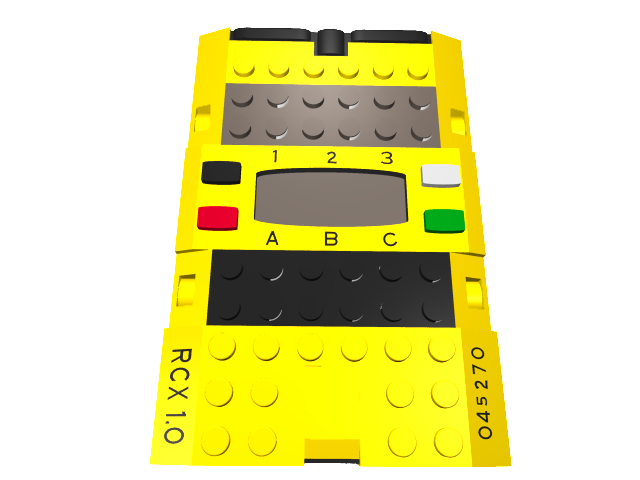
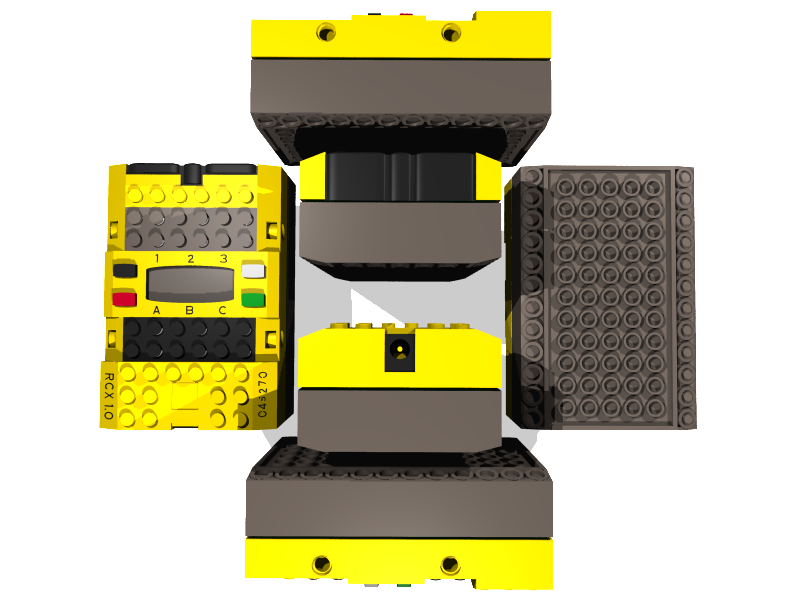
draft of linux and FAQ sections

diff --git a/_posts/2017-05-03-RCX_guide.html b/_posts/2017-05-03-RCX_guide.html
@@ -12,6 +12,7 @@ imgurl: /img/rcx_guide/rcx.png
 	<li>Programming on linux section</li>
 	<li>Online resources section</li>
 	<li>FAQ?</li>
+	<li>Add power supply to parts table</li>
 </ul>
 </b>
 
@@ -60,7 +61,7 @@ imgurl: /img/rcx_guide/rcx.png
 	and is the one you want anyway.
 	<figure>
 		<img class="embed_image" src="/img/rcx_guide/rcx.png">
-		<figcaption>RCX 1.0 brick. The 2.0 brick is identical except that there's no power jack at
+		<figcaption>RCX 1.0 brick, from all sides. The 2.0 brick is identical except that there's no power jack at
 			the bottom and it says "RCX 2.0" instead of "RCX 1.0".</figcaption>
 	</figure>
 </p>
@@ -170,11 +171,11 @@ imgurl: /img/rcx_guide/rcx.png
 	<figure>
 	<table>
 		<tr>
-			<th>Set Number</th>
+			<th>Set #</th>
 			<th>Set Name</th>
 			<th>RCX Brick Version</th>
-			<th>Motors included</th>
-			<th>Sensors included</th>
+			<th>Motors Included</th>
+			<th>Sensors Included</th>
 			<th>IR Tower Included</th>
 		</tr>
 		<tr>
@@ -327,7 +328,7 @@ imgurl: /img/rcx_guide/rcx.png
 		</tr>
 		<tr>
 			<td>Wire (general search)</td>
-			<td>Various (most starting with 5306bc)</td>
+			<td>Various (most starting with 5306bc or 5306ac)</td>
 			<td><a href="https://www.bricklink.com/v2/search.page?q=%20wire%20with%20brick">Link</a></td>
 		</tr>
 		<tr>
@@ -402,7 +403,35 @@ imgurl: /img/rcx_guide/rcx.png
 </p>
 <h3 id="linux">Linux</h3>
 <p>
-	Haven't written this section yet.
+	As far as I'm aware, there are no GUI Linux applications for controlling the RCX. However, if you're
+	comfortable with the command line (and if you're a linux user, you probably are), there are
+	several choices. These include:
+</p>
+	<ul>
+		<li>
+			<b><a href="http://bricxcc.sourceforge.net/nqc/">NQC</a></b> - the most popular choice on Linux.
+			A cross-platform C-like language for the RCX. Also includes various command-line tools, including
+			the ability to send arbitraty files and opcodes to the RCX, which can be useful for programming
+			in some other languages and for general hacking purposes.
+		</li>
+		<li>
+			<b><a href="http://www.lejos.org/rcx.php">LeJOS</a></b> - Java virtual machine for the RCX.
+			Versions also available for the NXT and EV3.
+		</li>
+		<li>
+			<b><a href="http://www.brickwiki.info/wiki/PbFORTH"><b>pbForth</b></a></b> - an implementation
+			of <a href="https://en.wikipedia.org/wiki/Forth_(programming_language)">Forth</a> for the RCX.
+			Deveoped by <a href="https://github.com/rhempel">Ralph Hempel</a>, who later worked on
+			<a href="https://github.com/7HAL32/pbLua">pbLua</a> for the NXT and
+			<a href="http://www.ev3dev.org/">ev3dev</a> for the EV3.
+			An advantage of pbForth is that it compiles programs on the RCX brick itself rather than on
+			the computer you're using, so all that's really required is the ability to transfer plaintext
+			files from to and from the RCX, which can easily be accomplished on Linux with NQC.
+		</li>
+	</ul>
+<p>
+	It's worth noting that drivers for the USB IR tower are included with essentially all versions of the Linux
+	kernel released in the last 10 years or so.
 </p>
 
 
@@ -446,6 +475,10 @@ imgurl: /img/rcx_guide/rcx.png
 <hr/>
 
 <h2 id="resources">Online Resources</h2>
+<h3>Hardware/Building Guides</h3>
+<h3>Software/Hacking</h3>
+<h3>Sharing</h3>
+<h3>Miscellaneous</h3>
 <p>
 	Haven't written this section yet
 </p>
@@ -453,11 +486,32 @@ imgurl: /img/rcx_guide/rcx.png
 <hr/>
 
 <h2 id="faq">Frequently Asked Questions</h2>
+<h3 id="batteries">I changed the batteries in my RCX and now all my programs are missing! What happened?</h3>
 <p>
-	Haven't written this section yet
+	The RCX's programs and firmware are stored in RAM. This made the brick cheaper to manufacture, because
+	RAM was much cheaper than flash storage in the 1990s. However, a downside of RAM is that it needs to be
+	continuously powered to retain the data it's storing. Thus, when power is cut to the RCX, such as when
+	batteries are removed, its memory is erased, and it reverts to the default firmware and programs.
+</p>
+<p>
+	Happily, inside the RCX there is a small capacitor, which maintains power to the RAM for approximately
+	20 seconds after the batteries are removed. Thus, if you change the batteries within that time, the
+	brick's memory will be preserved. Changing the RCX's batteries within 20 seconds sounds difficult,
+	but is actually not too hard with some practice.
 </p>
 
+<h3 id="64bit_q">I read on [Website] that I can't use the USB IR tower with 64-bit Windows! Is that true?</h3>
+<p>
+	<b>Not anymore</b>. <a href="#ir_tower_x64">See above</a> for more information.
+</p>
 
+<h3 id="tv_remote">Can I send data to the RCX from a
+	[TV remote/IR port on an old laptop/IR LED and an Arduino]?</h3>
+<p>
+	The short answer is <b>no</b>. The IR towers and remote for the RCX use a proprietary communications
+	protocol, which no one has reverse-engineered and which is incompatible with the protocols used by
+	television remotes or IR transmitters on older laptops. 
+</p>
 
 
 

diff --git a/_site/edu/2017/05/03/RCX_guide.html b/_site/edu/2017/05/03/RCX_guide.html
@@ -56,6 +56,7 @@
 	<li>Programming on linux section</li>
 	<li>Online resources section</li>
 	<li>FAQ?</li>
+	<li>Add power supply to parts table</li>
 </ul>
 </b>
 
@@ -104,7 +105,7 @@
 	and is the one you want anyway.
 	<figure>
 		<img class="embed_image" src="/img/rcx_guide/rcx.png">
-		<figcaption>RCX 1.0 brick. The 2.0 brick is identical except that there's no power jack at
+		<figcaption>RCX 1.0 brick, from all sides. The 2.0 brick is identical except that there's no power jack at
 			the bottom and it says "RCX 2.0" instead of "RCX 1.0".</figcaption>
 	</figure>
 </p>
@@ -214,11 +215,11 @@
 	<figure>
 	<table>
 		<tr>
-			<th>Set Number</th>
+			<th>Set #</th>
 			<th>Set Name</th>
 			<th>RCX Brick Version</th>
-			<th>Motors included</th>
-			<th>Sensors included</th>
+			<th>Motors Included</th>
+			<th>Sensors Included</th>
 			<th>IR Tower Included</th>
 		</tr>
 		<tr>
@@ -371,7 +372,7 @@
 		</tr>
 		<tr>
 			<td>Wire (general search)</td>
-			<td>Various (most starting with 5306bc)</td>
+			<td>Various (most starting with 5306bc or 5306ac)</td>
 			<td><a href="https://www.bricklink.com/v2/search.page?q=%20wire%20with%20brick">Link</a></td>
 		</tr>
 		<tr>
@@ -446,7 +447,35 @@
 </p>
 <h3 id="linux">Linux</h3>
 <p>
-	Haven't written this section yet.
+	As far as I'm aware, there are no GUI Linux applications for controlling the RCX. However, if you're
+	comfortable with the command line (and if you're a linux user, you probably are), there are
+	several choices. These include:
+</p>
+	<ul>
+		<li>
+			<b><a href="http://bricxcc.sourceforge.net/nqc/">NQC</a></b> - the most popular choice on Linux.
+			A cross-platform C-like language for the RCX. Also includes various command-line tools, including
+			the ability to send arbitraty files and opcodes to the RCX, which can be useful for programming
+			in some other languages and for general hacking purposes.
+		</li>
+		<li>
+			<b><a href="http://www.lejos.org/rcx.php">LeJOS</a></b> - Java virtual machine for the RCX.
+			Versions also available for the NXT and EV3.
+		</li>
+		<li>
+			<b><a href="http://www.brickwiki.info/wiki/PbFORTH"><b>pbForth</b></a></b> - an implementation
+			of <a href="https://en.wikipedia.org/wiki/Forth_(programming_language)">Forth</a> for the RCX.
+			Deveoped by <a href="https://github.com/rhempel">Ralph Hempel</a>, who later worked on
+			<a href="https://github.com/7HAL32/pbLua">pbLua</a> for the NXT and
+			<a href="http://www.ev3dev.org/">ev3dev</a> for the EV3.
+			An advantage of pbForth is that it compiles programs on the RCX brick itself rather than on
+			the computer you're using, so all that's really required is the ability to transfer plaintext
+			files from to and from the RCX, which can easily be accomplished on Linux with NQC.
+		</li>
+	</ul>
+<p>
+	It's worth noting that drivers for the USB IR tower are included with essentially all versions of the Linux
+	kernel released in the last 10 years or so.
 </p>
 
 
@@ -490,6 +519,10 @@
 <hr/>
 
 <h2 id="resources">Online Resources</h2>
+<h3>Hardware/Building Guides</h3>
+<h3>Software/Hacking</h3>
+<h3>Sharing</h3>
+<h3>Miscellaneous</h3>
 <p>
 	Haven't written this section yet
 </p>
@@ -497,11 +530,32 @@
 <hr/>
 
 <h2 id="faq">Frequently Asked Questions</h2>
+<h3 id="batteries">I changed the batteries in my RCX and now all my programs are missing! What happened?</h3>
 <p>
-	Haven't written this section yet
+	The RCX's programs and firmware are stored in RAM. This made the brick cheaper to manufacture, because
+	RAM was much cheaper than flash storage in the 1990s. However, a downside of RAM is that it needs to be
+	continuously powered to retain the data it's storing. Thus, when power is cut to the RCX, such as when
+	batteries are removed, its memory is erased, and it reverts to the default firmware and programs.
+</p>
+<p>
+	Happily, inside the RCX there is a small capacitor, which maintains power to the RAM for approximately
+	20 seconds after the batteries are removed. Thus, if you change the batteries within that time, the
+	brick's memory will be preserved. Changing the RCX's batteries within 20 seconds sounds difficult,
+	but is actually not too hard with some practice.
 </p>
 
+<h3 id="64bit_q">I read on [Website] that I can't use the USB IR tower with 64-bit Windows! Is that true?</h3>
+<p>
+	<b>Not anymore</b>. <a href="#ir_tower_x64">See above</a> for more information.
+</p>
 
+<h3 id="tv_remote">Can I send data to the RCX from a
+	[TV remote/IR port on an old laptop/IR LED and an Arduino]?</h3>
+<p>
+	The short answer is <b>no</b>. The IR towers and remote for the RCX use a proprietary communications
+	protocol, which no one has reverse-engineered and which is incompatible with the protocols used by
+	television remotes or IR transmitters on older laptops. 
+</p>
 
 
 
